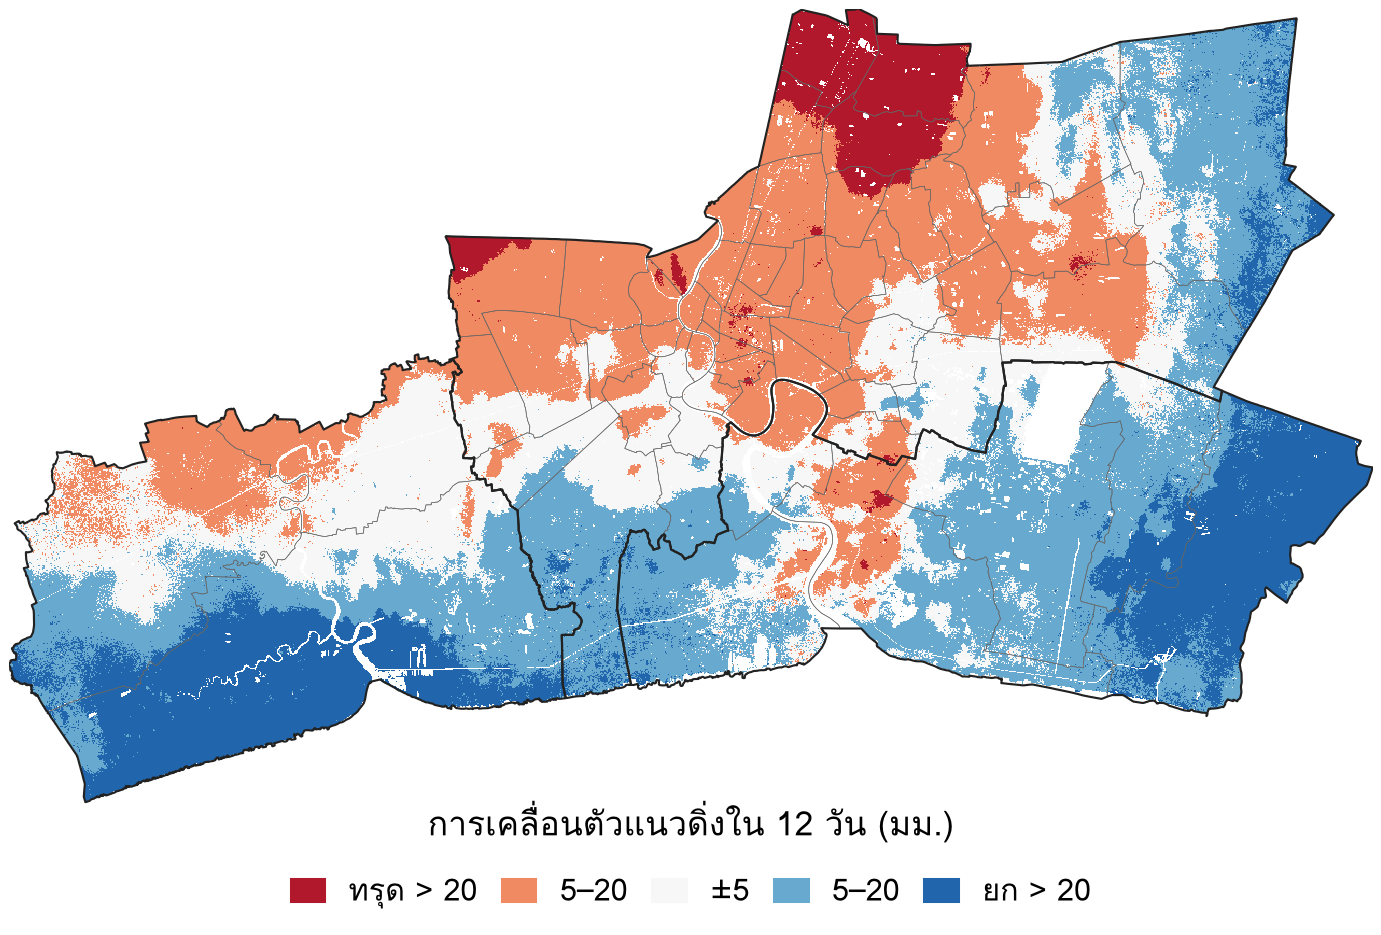
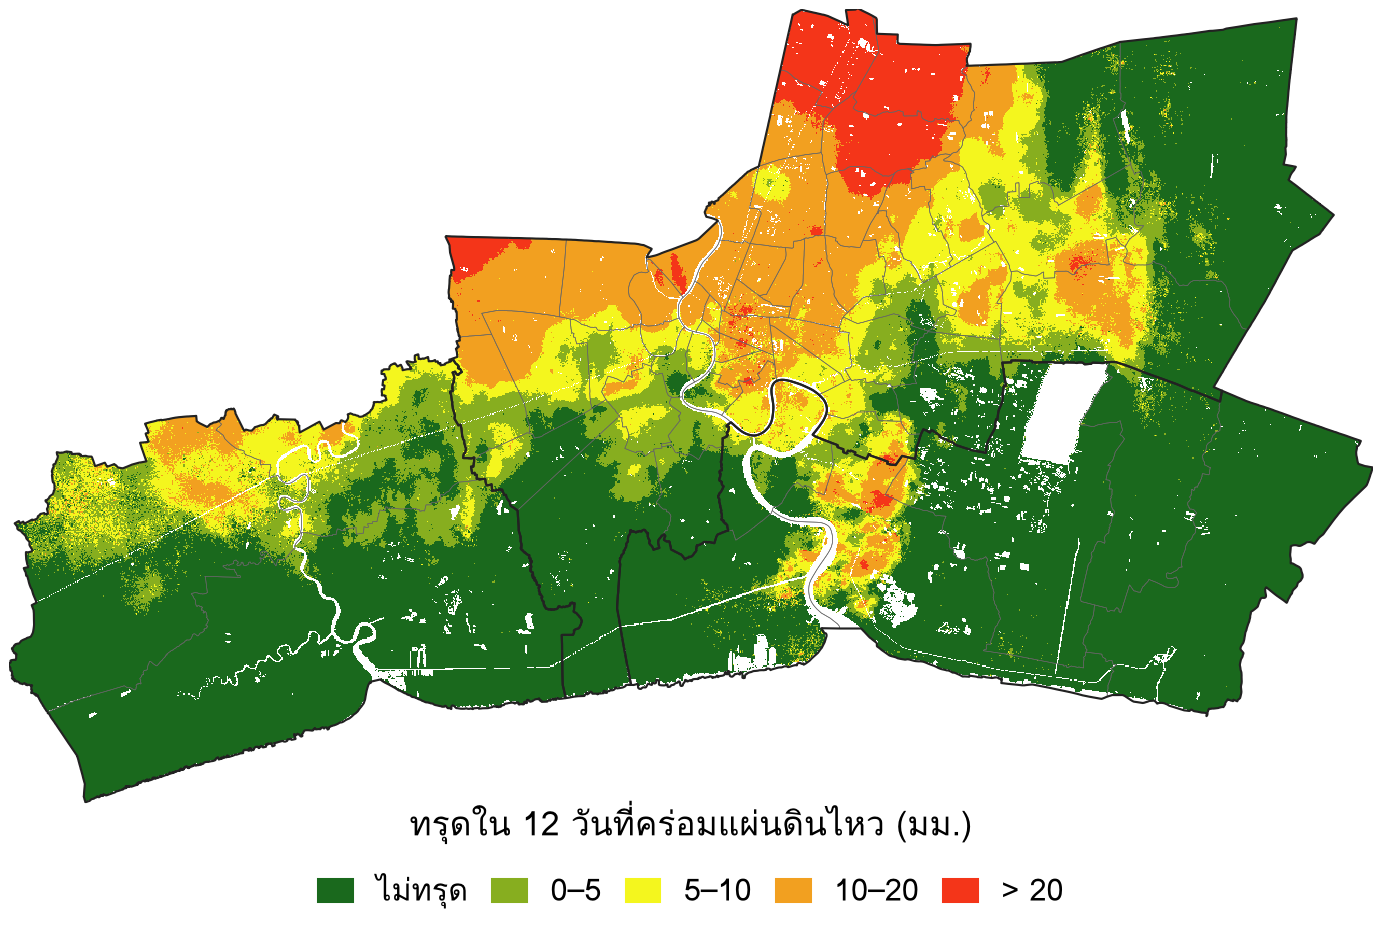
Earthquake slide: during map uses the same five sinking classes as before/after
Claude-Session: https://claude.ai/code/session_01FiiJ9Vao5pznzgtCE7Jjx1

diff --git a/scripts/eq_panels.py b/scripts/eq_panels.py
@@ -47,9 +47,7 @@ for f, name in [('vlm_pre.tif', 'eq_before.png'), ('vlm_post.tif', 'eq_after.png
     c = np.digitize(-a, [0, 5, 10, 20]).astype('float32'); c[a >= 0] = 0; c[~np.isfinite(a)] = np.nan
     draw(c, ext, RATE, -.5, 4.5, rh, 'อัตราทรุด (มม./ปี)', name)
     print(name, 'median', round(float(np.nanmedian(a)), 1))
-DIV = ListedColormap(['#b2182b', '#ef8a62', '#f7f7f7', '#67a9cf', '#2166ac'])
 a, ext = load('coseismic_up_mm.tif')
-c = np.digitize(a, [-20, -5, 5, 20]).astype('float32'); c[~np.isfinite(a)] = np.nan
-dh = [Patch(color=DIV(i), label=l) for i, l in enumerate(['ทรุด > 20', '5–20', '±5', '5–20', 'ยก > 20'])]
-draw(c, ext, DIV, -.5, 4.5, dh, 'การเคลื่อนตัวแนวดิ่งใน 12 วัน (มม.)', 'eq_during.png')
+c = np.digitize(-a, [0, 5, 10, 20]).astype('float32'); c[a >= 0] = 0; c[~np.isfinite(a)] = np.nan
+draw(c, ext, RATE, -.5, 4.5, rh, 'ทรุดใน 12 วันที่คร่อมแผ่นดินไหว (มม.)', 'eq_during.png')
 print('during std', round(float(np.nanstd(a)), 1))
